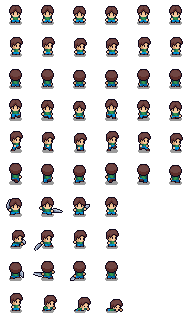
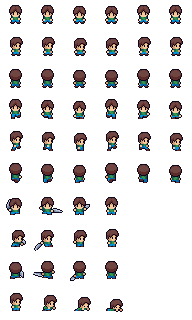
remove player shadow and idle animation

diff --git a/js/render.js b/js/render.js
@@ -1,11 +1,11 @@
-import { CELL, COLS, ROWS } from "./config.js?v=118";
-import { BAG_PALETTE, BAG_SPRITE, BUSH, BUSH_STAGES, CORPSE, HOLD_ARMS, OUTLINE, SPRITES, SWORD_PALETTE, SWORD_SPRITE, TREE_PALETTE, TREE_SCALE, TREE_SPRITES, WALK_SPRITES, WHEAT_GROWTH_PIXELS, WHEAT_PALETTE, WHEAT_SPRITES } from "./pixels.js?v=118";
-import { bagPose, crops, groundItems, heldItem, hoePose, leaves, seeds, swordPose } from "./items.js?v=118";
-import { BUILDINGS, BUSHES, MAP, TREES, areaIndex, buildingRoofPixels } from "./world.js?v=118";
-import { player } from "./player.js?v=118";
-import { NPCS } from "./npcs.js?v=118";
-import { barbarian } from "./enemies.js?v=118";
-import { showGrid } from "./input.js?v=118";
+import { CELL, COLS, ROWS } from "./config.js?v=122";
+import { BAG_PALETTE, BAG_SPRITE, BUSH, BUSH_STAGES, CORPSE, HOLD_ARMS, OUTLINE, SPRITES, SWORD_PALETTE, SWORD_SPRITE, TREE_PALETTE, TREE_SCALE, TREE_SPRITES, WALK_SPRITES, WHEAT_GROWTH_PIXELS, WHEAT_PALETTE, WHEAT_SPRITES } from "./pixels.js?v=122";
+import { bagPose, crops, groundItems, heldItem, hoePose, leaves, seeds, swordPose } from "./items.js?v=122";
+import { BUILDINGS, BUSHES, MAP, TREES, areaIndex, buildingRoofPixels } from "./world.js?v=122";
+import { player } from "./player.js?v=122";
+import { NPCS } from "./npcs.js?v=122";
+import { barbarian } from "./enemies.js?v=122";
+import { showGrid } from "./input.js?v=122";
 
 const canvas = document.getElementById("game");
 canvas.width = COLS * CELL;
@@ -15,7 +15,7 @@ ctx.imageSmoothingEnabled = false;
 
 function loadTileImage(name) {
   const image = new Image();
-  image.src = new URL(`../assets/images/tiles/${name}.png?v=118`, import.meta.url).href;
+  image.src = new URL(`../assets/images/tiles/${name}.png?v=122`, import.meta.url).href;
   return image;
 }
 
@@ -36,16 +36,16 @@ const PLAYER_SHEET_CELL = 32;
 const PLAYER_IDLE_ROWS = { down: 0, left: 1, right: 1, up: 2 };
 const PLAYER_WALK_ROWS = { down: 3, left: 4, right: 4, up: 5 };
 const PLAYER_FRAME_BOUNDS = [
-  [[9, 5, 22, 25], [9, 5, 22, 25], [9, 6, 22, 25], [9, 6, 22, 25], [9, 5, 22, 25], [9, 5, 22, 25]],
-  [[10, 5, 23, 25], [10, 5, 23, 25], [10, 6, 23, 25], [10, 6, 23, 25], [10, 5, 23, 25], [10, 5, 23, 25]],
-  [[9, 5, 22, 25], [9, 5, 22, 25], [9, 6, 22, 25], [9, 6, 22, 25], [9, 5, 22, 25], [9, 5, 22, 25]],
-  [[9, 3, 22, 25], [9, 4, 22, 25], [9, 5, 22, 25], [9, 3, 22, 25], [9, 4, 22, 25], [9, 5, 22, 25]],
-  [[10, 3, 23, 25], [10, 4, 23, 25], [10, 5, 23, 25], [10, 3, 23, 25], [10, 4, 23, 25], [10, 5, 23, 25]],
-  [[9, 3, 22, 25], [9, 4, 22, 25], [9, 5, 22, 25], [9, 3, 22, 25], [9, 4, 22, 25], [9, 5, 22, 25]],
+  [[9, 5, 22, 24], [9, 5, 22, 24], [9, 6, 22, 24], [9, 6, 22, 24], [9, 5, 22, 24], [9, 5, 22, 24]],
+  [[10, 5, 23, 24], [10, 5, 23, 24], [10, 6, 23, 24], [10, 6, 23, 24], [10, 5, 23, 24], [10, 5, 23, 24]],
+  [[9, 5, 22, 24], [9, 5, 22, 24], [9, 6, 22, 24], [9, 6, 22, 24], [9, 5, 22, 24], [9, 5, 22, 24]],
+  [[9, 3, 22, 23], [9, 4, 22, 23], [9, 5, 22, 23], [9, 3, 22, 23], [9, 4, 22, 23], [9, 5, 22, 23]],
+  [[10, 3, 23, 23], [10, 4, 23, 23], [10, 5, 23, 23], [10, 3, 23, 23], [10, 4, 23, 23], [10, 5, 23, 23]],
+  [[9, 3, 22, 23], [9, 4, 22, 23], [9, 5, 22, 23], [9, 3, 22, 23], [9, 4, 22, 23], [9, 5, 22, 23]],
 ];
 const playerSpriteSheet = new Image();
 playerSpriteSheet.src = new URL(
-  "../assets/images/player2.0/player2_sheet.png?v=118",
+  "../assets/images/player2.0/player2_sheet.png?v=125",
   import.meta.url,
 ).href;
 
@@ -486,7 +486,7 @@ const HOE_HEIGHT = 14;
 const HOE_PIVOT = [7, 5];
 const HOE_TURN = Math.PI * 0.25;
 const hoeImage = new Image();
-hoeImage.src = new URL("../assets/images/hoe.png?v=118", import.meta.url).href;
+hoeImage.src = new URL("../assets/images/hoe.png?v=122", import.meta.url).href;
 
 function drawHoe(ox, oy, angle = 0) {
   if (!hoeImage.complete || !hoeImage.naturalWidth) return;
@@ -535,7 +535,7 @@ const WHEAT_HOLD = {
 const WHEAT_BUNDLE_WIDTH = 16;
 const WHEAT_BUNDLE_HEIGHT = 22;
 const wheatBundleImage = new Image();
-wheatBundleImage.src = new URL("../assets/images/wheat/wheat_bundle.png?v=118", import.meta.url).href;
+wheatBundleImage.src = new URL("../assets/images/wheat/wheat_bundle.png?v=122", import.meta.url).href;
 
 function drawWheatBundle(ox, oy) {
   if (!wheatBundleImage.complete || !wheatBundleImage.naturalWidth) return;
@@ -681,7 +681,7 @@ function drawPlayer(slideX, slideY) {
     slideX,
     slideY,
     playerMoving,
-    playerMoving ? player.walk : player.idleFrame,
+    playerMoving ? player.walk : 0,
   );
   if (pose && pose.frame >= 0) drawSlash(pose.x, pose.y, pose.facing, pose.frame);
   if (pose && !swordBehind) drawHeldSwordAt(slideX, slideY, pose);

diff --git a/js/player.js b/js/player.js
@@ -1,9 +1,7 @@
-import { CELL } from "./config.js?v=118";
+import { CELL } from "./config.js?v=122";
 
 const SLIDE = 2;
 const WALK_FRAMES = 6;
-const IDLE_FRAMES = 6;
-const IDLE_FRAME_TICKS = 10;
 
 export const player = {
   x: 7,
@@ -13,8 +11,6 @@ export const player = {
   dy: 0,
   step: 0,
   walk: 0,
-  idleFrame: 0,
-  idleClock: 0,
   wrap: false,
   hp: 5,
   maxHp: 5,
@@ -28,8 +24,6 @@ export function resetPlayer() {
   player.dy = 0;
   player.step = 0;
   player.walk = 0;
-  player.idleFrame = 0;
-  player.idleClock = 0;
   player.wrap = false;
   player.maxHp = 5;
   player.hp = player.maxHp;
@@ -44,19 +38,10 @@ export function healPlayer(amount) {
   player.hp = Math.min(5, player.hp + amount);
 }
 
-function advanceIdle() {
-  player.idleClock += 1;
-  if (player.idleClock < IDLE_FRAME_TICKS) return;
-  player.idleClock = 0;
-  player.idleFrame = (player.idleFrame + 1) % IDLE_FRAMES;
-}
-
 export function updatePlayer(dir, tryStep) {
   let continuing = false;
 
   if (player.step > 0) {
-    player.idleFrame = 0;
-    player.idleClock = 0;
     player.step += SLIDE;
     if (player.step % (CELL / 2) === 0) player.walk = (player.walk + 1) % WALK_FRAMES;
     if (player.step < CELL) return;
@@ -74,21 +59,15 @@ export function updatePlayer(dir, tryStep) {
 
   if (!dir) {
     player.walk = 0;
-    advanceIdle();
     return;
   }
 
   const [dx, dy, facing] = dir;
   player.facing = facing;
-  if (!tryStep(dx, dy)) {
-    advanceIdle();
-    return;
-  }
+  if (!tryStep(dx, dy)) return;
 
   player.dx = dx;
   player.dy = dy;
   player.step = SLIDE;
-  player.idleFrame = 0;
-  player.idleClock = 0;
   if (!continuing) player.walk = 0;
 }

diff --git a/js/main.js b/js/main.js
@@ -1,14 +1,14 @@
-import { COLS, FRAME_MS, ROWS } from "./config.js?v=118";
-import { NPCS, updateNpcs } from "./npcs.js?v=118";
-import { updateBarbarian } from "./enemies.js?v=118";
-import { player, updatePlayer } from "./player.js?v=118";
-import { blockedCell } from "./collision.js?v=118";
-import { dialogueIsOpen } from "./dialogue.js?v=118";
-import { areaNeighbor, crossingBlocked, enterArea } from "./world.js?v=118";
-import { heldAction, heldDirection } from "./input.js?v=118";
-import { startScoop, updateCrops, updateLeaves, updateScoop, updateSow, updateThrust } from "./items.js?v=118";
-import { loadGame, paintMenu } from "./menu.js?v=118";
-import { render, updateSmoke } from "./render.js?v=118";
+import { COLS, FRAME_MS, ROWS } from "./config.js?v=122";
+import { NPCS, updateNpcs } from "./npcs.js?v=122";
+import { updateBarbarian } from "./enemies.js?v=122";
+import { player, updatePlayer } from "./player.js?v=122";
+import { blockedCell } from "./collision.js?v=122";
+import { dialogueIsOpen } from "./dialogue.js?v=122";
+import { areaNeighbor, crossingBlocked, enterArea } from "./world.js?v=122";
+import { heldAction, heldDirection } from "./input.js?v=122";
+import { startScoop, updateCrops, updateLeaves, updateScoop, updateSow, updateThrust } from "./items.js?v=122";
+import { loadGame, paintMenu } from "./menu.js?v=122";
+import { render, updateSmoke } from "./render.js?v=125";
 
 function tryStep(dx, dy) {
   const nx = player.x + dx;

diff --git a/js/menu.js b/js/menu.js
@@ -1,8 +1,8 @@
-import { COLS, ROWS } from "./config.js?v=118";
-import { healPlayer, player, resetPlayer } from "./player.js?v=118";
-import { applyCrops, coinCanvas, cropSnapshot, heldItem, items, loafCanvas, resetItems, stores, takeBread } from "./items.js?v=118";
-import { NPCS, resetNpcs } from "./npcs.js?v=118";
-import { applySavedTerrain, areaIndex, areaList, enterArea, resetTerrain } from "./world.js?v=118";
+import { COLS, ROWS } from "./config.js?v=122";
+import { healPlayer, player, resetPlayer } from "./player.js?v=122";
+import { applyCrops, coinCanvas, cropSnapshot, heldItem, items, loafCanvas, resetItems, stores, takeBread } from "./items.js?v=122";
+import { NPCS, resetNpcs } from "./npcs.js?v=122";
+import { applySavedTerrain, areaIndex, areaList, enterArea, resetTerrain } from "./world.js?v=122";
 
 const SAVE_KEY = "ancient-bob";
 const OPTIONS = ["Items", "Map", "Save Game", "New Game", "Exit"];

diff --git a/js/input.js b/js/input.js
@@ -1,7 +1,7 @@
-import { npcInFront } from "./npcs.js?v=118";
-import { declineDialogue, dialogueIsOpen, handleSpace, moveDialogue } from "./dialogue.js?v=118";
-import { destroyYoungWheat, dropItem, harvestWheat, heldItem, itemInReach, pickupItem, startScoop, startSow, startThrust } from "./items.js?v=118";
-import { backMenu, closeMenu, menuIsOpen, moveMenu, openMenu, selectMenu } from "./menu.js?v=118";
+import { npcInFront } from "./npcs.js?v=122";
+import { declineDialogue, dialogueIsOpen, handleSpace, moveDialogue } from "./dialogue.js?v=122";
+import { destroyYoungWheat, dropItem, harvestWheat, heldItem, itemInReach, pickupItem, startScoop, startSow, startThrust } from "./items.js?v=122";
+import { backMenu, closeMenu, menuIsOpen, moveMenu, openMenu, selectMenu } from "./menu.js?v=122";
 
 export let showGrid = false;
 let actionHeld = false;

diff --git a/js/enemies.js b/js/enemies.js
@@ -1,9 +1,9 @@
-import { CELL, COLS, FPS } from "./config.js?v=118";
-import { BARBARIAN_PALETTE, HOOD_SPRITES, HOOD_WALK } from "./pixels.js?v=118";
-import { hurtPlayer, player } from "./player.js?v=118";
-import { NPCS } from "./npcs.js?v=118";
-import { blockedCell } from "./collision.js?v=118";
-import { areaIndex } from "./world.js?v=118";
+import { CELL, COLS, FPS } from "./config.js?v=122";
+import { BARBARIAN_PALETTE, HOOD_SPRITES, HOOD_WALK } from "./pixels.js?v=122";
+import { hurtPlayer, player } from "./player.js?v=122";
+import { NPCS } from "./npcs.js?v=122";
+import { blockedCell } from "./collision.js?v=122";
+import { areaIndex } from "./world.js?v=122";
 
 const BARBARIAN_ACTIVE = false;
 const SLIDE = 2;

diff --git a/js/npcs.js b/js/npcs.js
@@ -1,7 +1,7 @@
-import { BAKER_PALETTE, BAKER_SPRITES, FARM_SPRITES, FARMER_PALETTE, MAN_PALETTE, WOMAN_PALETTE, OLD_MAN_PALETTE } from "./pixels.js?v=118";
-import { player } from "./player.js?v=118";
-import { blockedCell } from "./collision.js?v=118";
-import { MAP, areaIndex, tillGrass } from "./world.js?v=118";
+import { BAKER_PALETTE, BAKER_SPRITES, FARM_SPRITES, FARMER_PALETTE, MAN_PALETTE, WOMAN_PALETTE, OLD_MAN_PALETTE } from "./pixels.js?v=122";
+import { player } from "./player.js?v=122";
+import { blockedCell } from "./collision.js?v=122";
+import { MAP, areaIndex, tillGrass } from "./world.js?v=122";
 
 function hat(sprite, rows) {
   return rows.concat(sprite.slice(rows.length));

diff --git a/js/items.js b/js/items.js
@@ -1,7 +1,7 @@
-import { CELL, COLS, FPS, ROWS } from "./config.js?v=118";
-import { WHEAT_GROWTH_PIXELS } from "./pixels.js?v=118";
-import { player } from "./player.js?v=118";
-import { MAP, areaIndex, areaList, cutBush, tillGrass } from "./world.js?v=118";
+import { CELL, COLS, FPS, ROWS } from "./config.js?v=122";
+import { WHEAT_GROWTH_PIXELS } from "./pixels.js?v=122";
+import { player } from "./player.js?v=122";
+import { MAP, areaIndex, areaList, cutBush, tillGrass } from "./world.js?v=122";
 
 export const items = [
   { kind: "sword", area: 0, x: player.x + 2, y: player.y - 1, held: false },

diff --git a/js/collision.js b/js/collision.js
@@ -1,6 +1,6 @@
-import { COLS, ROWS } from "./config.js?v=118";
-import { MAP, areaIndex, buildingAt, bushAt, treeAt } from "./world.js?v=118";
-import { barbarian } from "./enemies.js?v=118";
+import { COLS, ROWS } from "./config.js?v=122";
+import { MAP, areaIndex, buildingAt, bushAt, treeAt } from "./world.js?v=122";
+import { barbarian } from "./enemies.js?v=122";
 
 export function blockedCell(x, y, player, npcs, ignoreNpc) {
   if (x < 0 || y < 0 || x >= COLS || y >= ROWS) return true;

diff --git a/js/dialogue.js b/js/dialogue.js
@@ -1,5 +1,5 @@
-import { player } from "./player.js?v=118";
-import { giveBread, heldItem, loafCanvas, takeHeldWheat } from "./items.js?v=118";
+import { player } from "./player.js?v=122";
+import { giveBread, heldItem, loafCanvas, takeHeldWheat } from "./items.js?v=122";
 
 const BAKER_INTRO = "Hi, I am the baker. Here is a loaf! If you want more, bring me some wheat.";
 const BAKER_AGAIN = "Bring me wheat, and I will bake you another loaf.";

diff --git a/js/world.js b/js/world.js
@@ -1,5 +1,5 @@
-import { CELL, COLS, ROWS } from "./config.js?v=118";
-import { TREE_SCALE, TREE_SPRITES } from "./pixels.js?v=118";
+import { CELL, COLS, ROWS } from "./config.js?v=122";
+import { TREE_SCALE, TREE_SPRITES } from "./pixels.js?v=122";
 
 // w water, g grass, s soil, p rock path. The shore meets the top and left edges.
 const VILLAGE_MAP = [

diff --git a/index.html b/index.html
@@ -43,6 +43,6 @@ Enter menu</p>
     </div>
   </div>
   <script type="module" src="js/music.js"></script>
-  <script type="module" src="js/main.js?v=118"></script>
+  <script type="module" src="js/main.js?v=125"></script>
 </body>
 </html>
